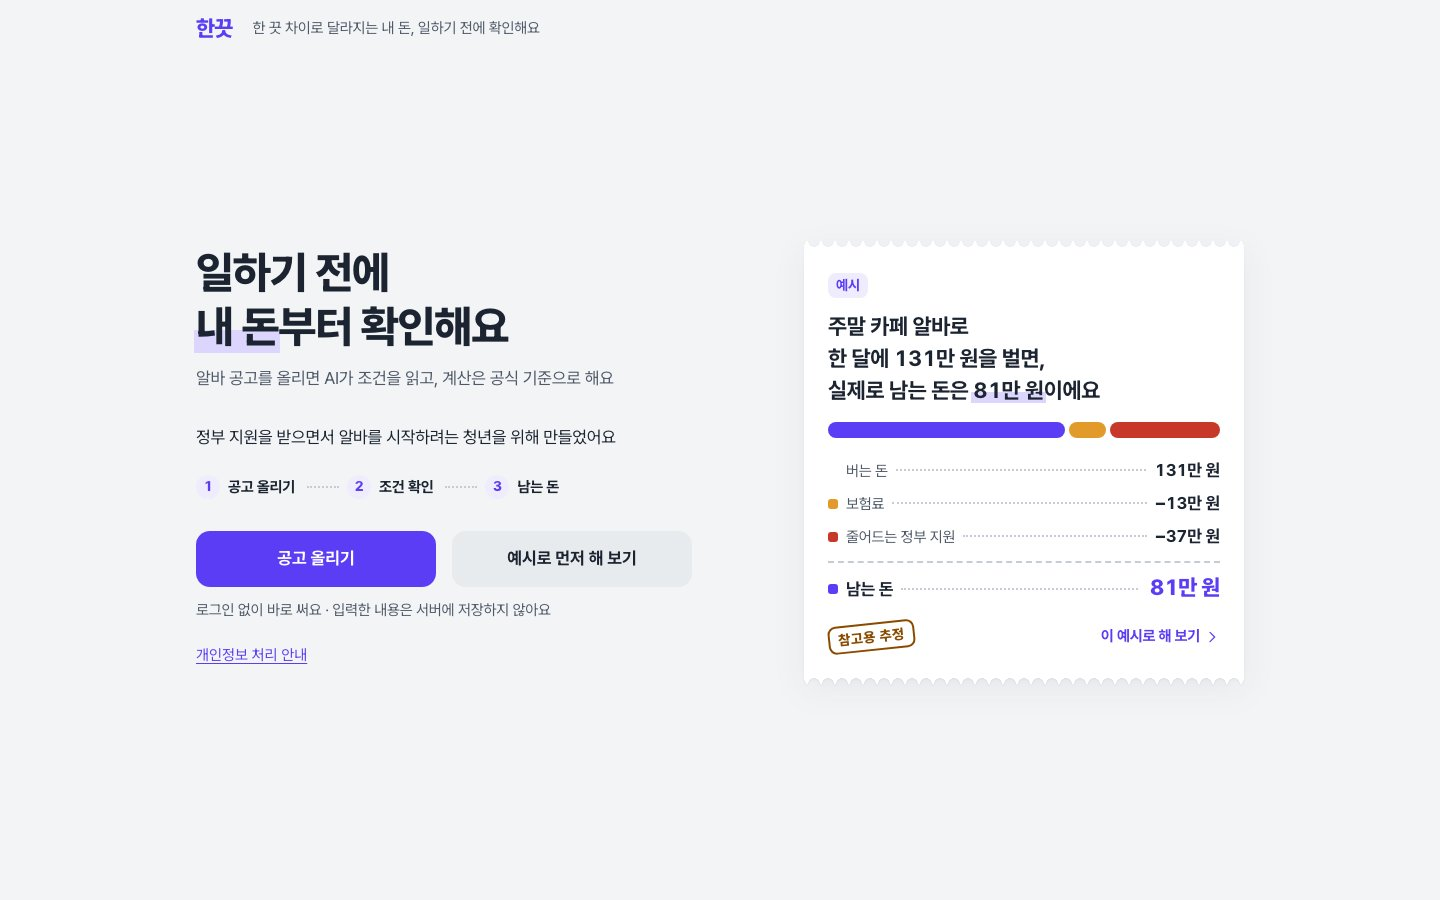
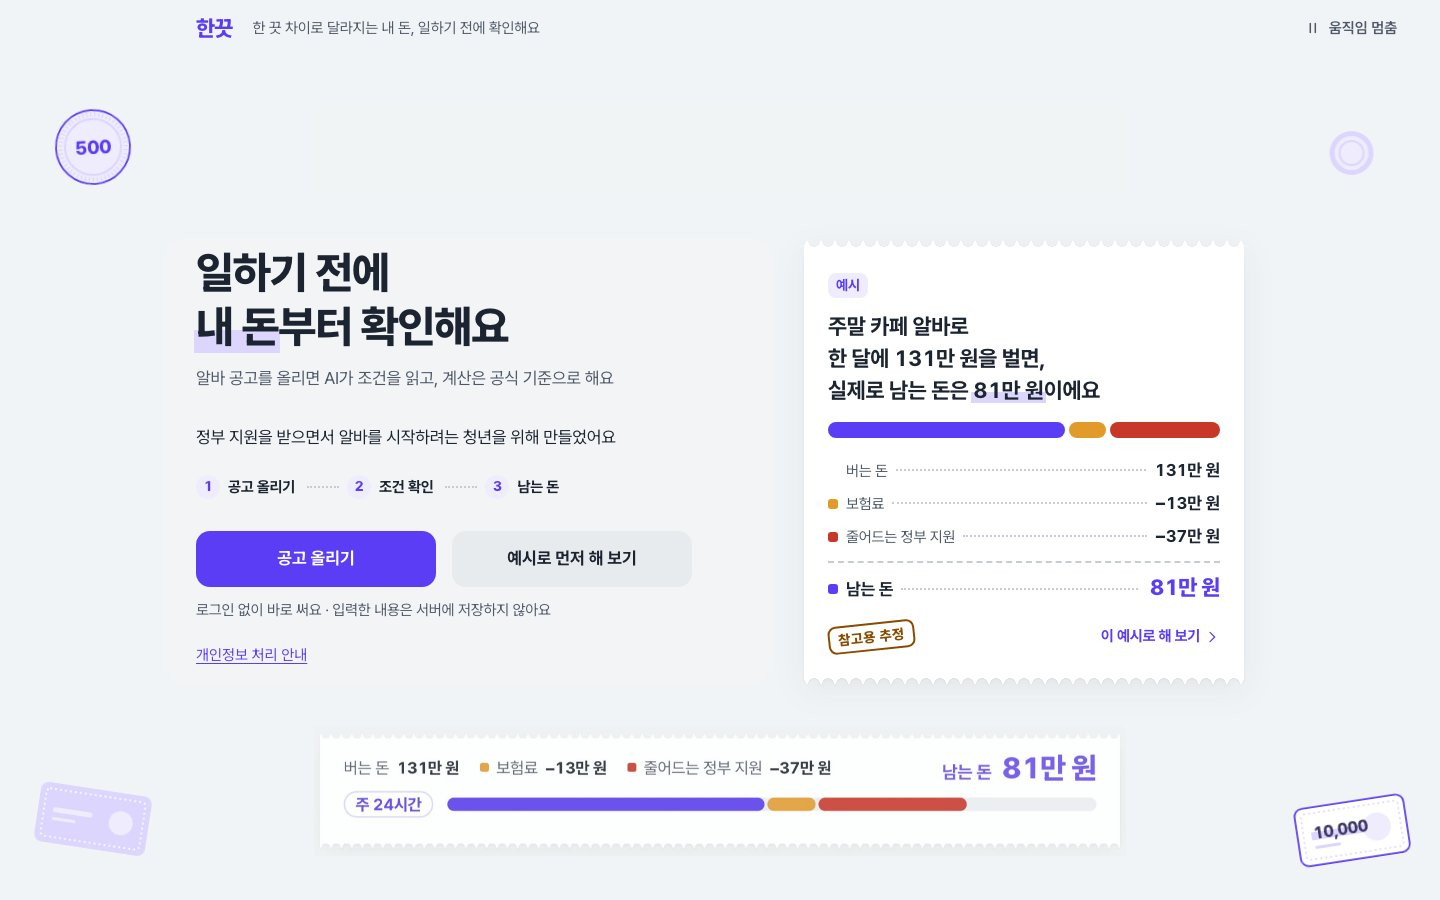
PC 시작 화면에도 다른 화면과 같은 떠다니는 동전·지폐 4개를 띄움(1366px 이상), 배경 영상은 그대로
사용자 "시작 화면도 다른 메뉴들처럼 상하좌우 모션그래픽 넣어줘", "영상은 그대로 두고 동전 넣어 줘".
'움직임 멈춤' 하나로 영상과 동전·지폐가 함께 멈춘다. 영상 띠와는 가로로 160px 이상 떨어져 있다.
휴대폰과 1024~1365px 시작 화면은 그대로. 1440 시작 화면 캡처와 전체 그림을 다시 찍음.

diff --git a/munteok/css/style.css b/munteok/css/style.css
@@ -5,7 +5,7 @@
    글자 13·15·17·22·30·44px(결과 숫자만 40·48px, PC에서는 13px 글을 14px로), 여백 4·8·12·16·24·32·48·64px, 둥글기 8·14·24px.
    영역은 그림자 대신 바탕색 차이로 나눈다. 그림자는 영수증 카드에만 아주 옅게 쓴다.
    움직임은 0.3초 이하(결과 숫자만 0.5초)이고, 동작 줄이기 설정이면 모두 끈다.
-   하나만 예외: PC 화면(시작 화면 빼고) 좌우 여백의 동전·지폐는 6~13초에 걸쳐 몇 px만 계속 떠다니고, '움직임 멈춤'으로 멈춘다(아래 '떠다니는 동전·지폐'). */
+   하나만 예외: PC 화면(1366px 이상) 좌우 여백의 동전·지폐는 6~13초에 걸쳐 몇 px만 계속 떠다니고, '움직임 멈춤'으로 멈춘다(아래 '떠다니는 동전·지폐'). */
 :root {
   --bg: #F2F4F6;
   --card: #ffffff;
@@ -641,7 +641,8 @@ select { min-height: 48px; }
 @media (min-width: 1024px) and (hover: hover) and (pointer: fine) {
   body[data-step="samples"] .app > .rows > .row:hover { background: var(--fill); }
 }
-/* 떠다니는 동전·지폐(시작 화면 빼고 PC 1366px 이상): 가운데 1080px 틀 바깥 좌우 여백의 위·아래 모서리에 하나씩, 화면에 고정한다.
+/* 떠다니는 동전·지폐(시작 화면을 포함한 모든 PC 화면, 1366px 이상): 가운데 1080px 틀 바깥 좌우 여백의 위·아래 모서리에 하나씩, 화면에 고정한다.
+   시작 화면에서는 배경 영상(css/bgvideo.css)의 두 띠가 틀 안에 있어 여백의 그림과 겹치지 않고, '움직임 멈춤' 하나로 둘 다 멈춘다.
    .coins는 #app 밖에 한 번만 있는 층이라 화면을 넘기거나 스크롤해도 자리와 움직임이 그대로다.
    그림 가운데를 여백 가운데에 두고(여백 1366px에서 143px, 1440px에서 180px), 위쪽 둘은 위쪽 막대(56px) 아래, 아래쪽 둘은 창 끝에서 떨어뜨린다.
    그래서 움직이는 동안에도 틀 안의 글·버튼·위쪽 막대·아래 버튼 줄·창 끝과 겹치지 않는다. 여백이 좁은 1366px에서는 조금 작게, 넓은 화면에서는 조금 크게(--k).
@@ -672,8 +673,8 @@ body[data-motion="off"] .coin, body[data-motion="off"] .coin > svg { animation-p
 .motion-btn { position: fixed; z-index: 7; top: 6px; left: calc(100% - (100% - 1080px) / 4); translate: -50% 0; align-items: center; gap: 6px; min-height: 44px; padding: 0 10px; border: 0; background: none; border-radius: 14px; cursor: pointer; font-size: 15px; font-weight: 600; color: var(--sub); white-space: nowrap; }
 .motion-btn .i { width: 20px; height: 20px; }
 @media (min-width: 1366px) {
-  body[data-step]:not([data-step="start"]) .coins { display: block; animation: fade-in .3s linear backwards; }
-  body[data-step]:not([data-step="start"]) .motion-btn { display: inline-flex; }
+  body[data-step] .coins { display: block; animation: fade-in .3s linear backwards; }
+  body[data-step] .motion-btn { display: inline-flex; }
 }
 @media (min-width: 1440px) { .coins { --k: 1; } }
 @media (min-width: 1680px) { .coins { --k: 1.15; } }

diff --git a/munteok/js/app.js b/munteok/js/app.js
@@ -189,7 +189,7 @@ function sampleSummary(id) {
   return evaluate(job, s.profile, state.rules).summary;
 }
 
-// PC 화면(시작 화면 빼고, 1366px 이상)의 틀 바깥 좌우 여백에 떠다니는 동전·지폐. 한끗 보라로 그린 그림이라 화면 읽기 프로그램은 읽지 않는다.
+// PC 화면(시작 화면 포함, 1366px 이상)의 틀 바깥 좌우 여백에 떠다니는 동전·지폐. 한끗 보라로 그린 그림이라 화면 읽기 프로그램은 읽지 않는다.
 // 가까운 것은 보라 테두리와 숫자(지폐 숫자 밑에는 예시 영수증처럼 형광펜), 먼 것은 옅은 보라 면만 그린다.
 // 지폐 안쪽 점선 테는 영수증 줄의 점선과 같은 모양. 자리·움직임·멈춤은 style.css '떠다니는 동전·지폐', 그림 층은 '움직임' 구역에서 한 번만 만든다.
 function coinSvg(d, num) {

diff --git a/docs/intent/hankkeut-screen-motion.md b/docs/intent/hankkeut-screen-motion.md
@@ -4,6 +4,8 @@
 `docs/intent/hankkeut-start-motion.md`의 "PC 시작 화면에만"과, 하지 않을 것의 "시작 화면 말고 다른 화면에 그래픽 넣기"는 이 문서로 바뀌어요. 그림 모양(한끗 보라로 직접 그린 동전·지폐), 움직임 방식(transform만, 은은하게 계속), '움직임 멈춤' 버튼과 동작 줄이기 규칙은 그 문서 그대로예요.
 색은 `docs/intent/hankkeut-color.md`, PC 배치는 `docs/intent/hankkeut-pc-layout.md`를 따라요.
 
+> **바뀜 (2026-11-23 10:40):** 사용자가 "시작 화면도 다른 메뉴들처럼 상하좌우 모션그래픽 넣어줘"라고 해서, 시작 화면(PC 1366px 이상)에도 같은 자리에 같은 동전·지폐 4개를 띄워요. 시작 화면의 '따로 하고 싶은 것'은 배경 영상(`docs/intent/hankkeut-bg-video.md`)이었고 그대로 둬요. '움직임 멈춤'은 하나로 영상과 동전·지폐를 함께 멈춰요. 아래 표의 '시작 화면' 줄과 하지 않을 것의 '시작 화면은 그림·버튼을 빼는 것까지만'은 이 결정으로 바뀌어요.
+
 ## 목표 (Why)
 - 그림이 시작 화면에만 있으면 화면을 넘기는 순간 사라져서 서비스가 갑자기 멈춘 것처럼 보여요. 화면마다 있다 없다 하지 않고 모든 화면에서 같은 자리에 떠 있어, 하나의 살아 있는 서비스로 보이게 해요.
 - 시작 화면은 사용자가 따로 하고 싶은 게 있어서 비워 둬요(그림·버튼을 빼고 전 모습으로).
